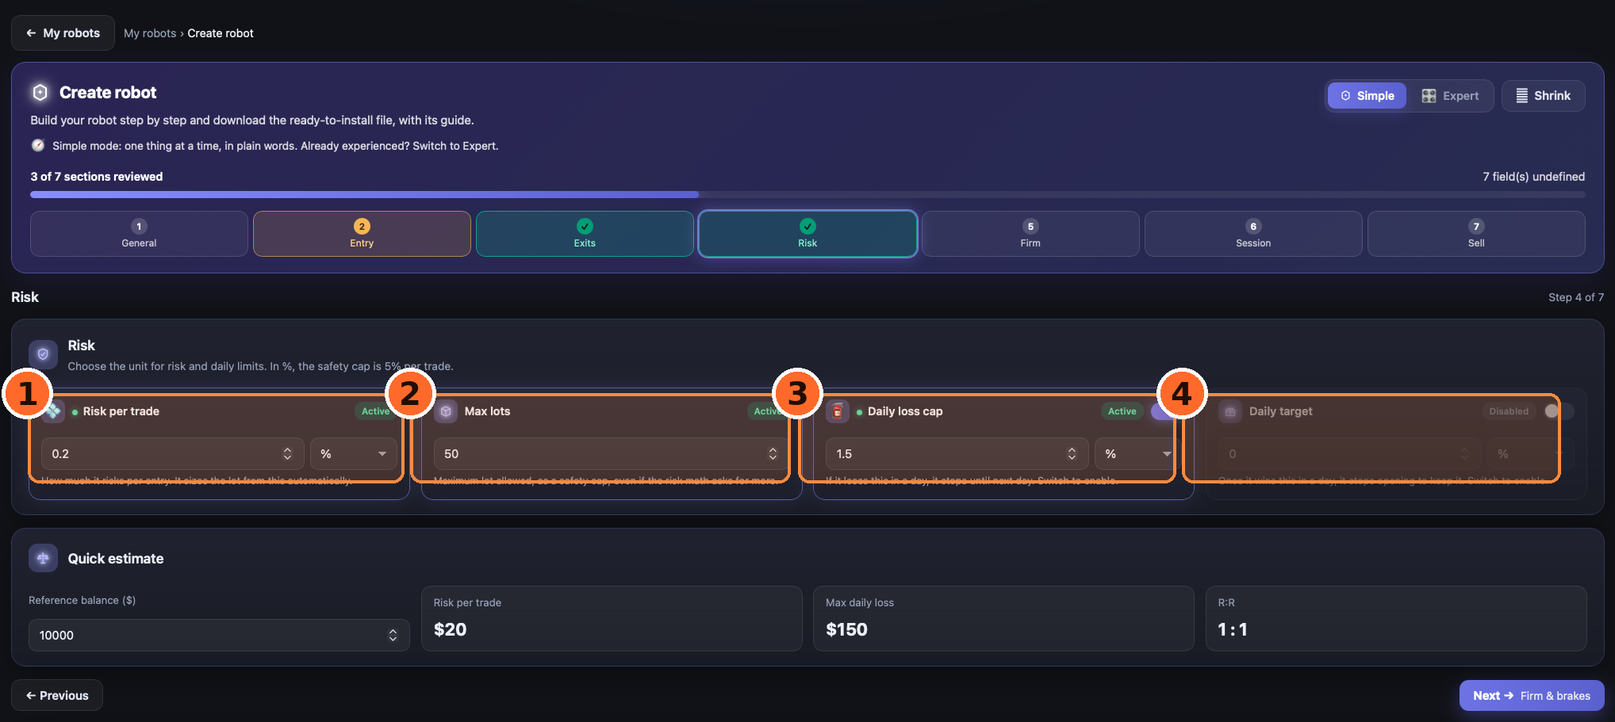
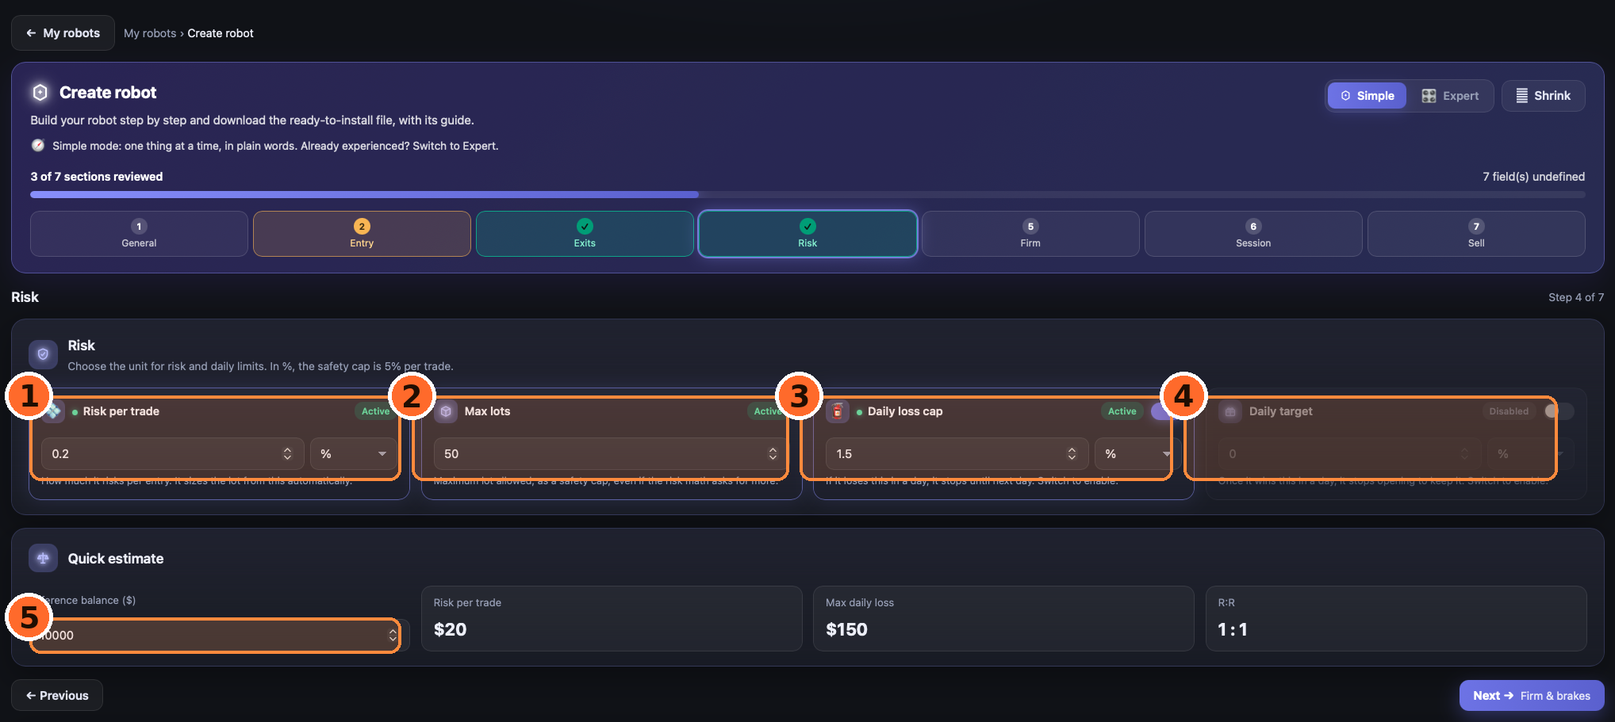
adm

Changed region(s): [[0.0, 0.4918, 0.9902, 0.6762], [0.0, 0.7991, 0.2475, 0.9221]]

diff --git a/app/como-usar/page.tsx b/app/como-usar/page.tsx
@@ -25,7 +25,7 @@ type Cat = { es: string; en: string; guides: Guide[] };
 
 // Sube este número cada vez que reemplaces una captura en /public/guia-img/
 // para forzar que el navegador descargue la versión nueva (evita caché viejo).
-const IMG_V = '10';
+const IMG_V = '11';
 
 const CATS: Cat[] = [
   {
@@ -126,47 +126,47 @@ const CATS: Cat[] = [
   {
     es: 'Módulos', en: 'Modules',
     guides: [
-      { id: 'mis-robots', icon: 'robot', es: 'Mis robots', en: 'My robots', mins: 6, steps: [
-        { es: 'Abre Mis robots', en: 'Open My robots', img: 'guia-img/robots-1.png',
-          des_es: 'Cada cuenta conectada aparece como una tarjeta. Tus robots se muestran aquí solos cuando su EA opera con su magic number en una cuenta conectada. Pulsa "Crear robot" para construir uno nuevo paso a paso, o "Ver los robots" para abrir los de una cuenta. Abajo puedes comparar carteras y ver si tus robots diversifican o caen juntos.',
-          des_en: 'Each connected account shows up as a card. Your robots appear here on their own once their EA trades with its magic number on a connected account. Tap "Create robot" to build one step by step, or "See the robots" to open an account’s robots. Below you can compare portfolios and see whether your robots diversify or fall together.',
-          markers: [{ x: 50, y: 13, n: 1, es: 'Botón Crear robot', en: 'Create robot button' }, { x: 8, y: 19, n: 2, es: 'Tarjeta de tu cuenta conectada', en: 'Your connected account card' }, { x: 8, y: 33, n: 3, es: 'Ver los robots de la cuenta', en: 'See the account’s robots' }] },
-        { es: 'Paso 1 · General', en: 'Step 1 · General', img: 'guia-img/robots-2.png',
-          des_es: 'Dale un nombre que reconozcas, elige la plataforma (genera el archivo .mq5 / .mq4 / .cs correcto) y el instrumento (lo encuentra aunque tu bróker use otro sufijo). El magic — la identidad del robot — lo asigna Onyx solo y es único: no se puede cambiar, identifica tu robot en toda la plataforma. Define también el timeframe de entrada y el idioma del panel.',
-          des_en: 'Give it a name you’ll recognize, pick the platform (it generates the right .mq5 / .mq4 / .cs file) and the instrument (it finds it even if your broker uses another suffix). The magic — the robot’s identity — is assigned by Onyx automatically and is unique: it can’t be changed and identifies your robot across the platform. Also set the entry timeframe and the panel language.',
-          markers: [{ x: 10, y: 44, n: 1, es: 'Nombre del robot', en: 'Robot name' }, { x: 25, y: 44, n: 2, es: 'Plataforma', en: 'Platform' }, { x: 42, y: 44, n: 3, es: 'Instrumento', en: 'Instrument' }, { x: 58, y: 44, n: 4, es: 'Magic (automático y único)', en: 'Magic (automatic and unique)' }, { x: 95, y: 57, n: 5, es: 'Siguiente → Entry', en: 'Next → Entry' }] },
-        { es: 'Paso 2 · Entrada', en: 'Step 2 · Entry', img: 'guia-img/robots-3.png',
-          des_es: 'Elige el disparador de entrada: la señal del "cuándo entrar". Luego el sesgo/tendencia (cómo lee la dirección, solo opera a favor) y su timeframe superior. Pon el tope de operaciones por día (0 = sin límite) y decide si el robot abre en largos, cortos o ambos.',
-          des_en: 'Pick the entry trigger: the signal for "when to enter". Then the bias/trend (how it reads direction — it only trades in its favor) and its higher timeframe. Set the cap of trades per day (0 = no limit) and choose whether the robot takes longs, shorts or both.',
-          markers: [{ x: 8, y: 64, n: 1, es: 'Disparador de entrada', en: 'Entry trigger' }, { x: 22, y: 64, n: 2, es: 'Sesgo / tendencia', en: 'Bias / trend' }, { x: 8, y: 84, n: 3, es: 'Máx. operaciones/día', en: 'Max trades/day' }, { x: 21, y: 82, n: 4, es: 'Largos y cortos', en: 'Longs and shorts' }] },
-        { es: 'Paso 3 · Salidas y gestión', en: 'Step 3 · Exits & management', img: 'guia-img/robots-4.png',
-          des_es: 'Aquí defines cómo cierra. El stop loss protege la pérdida; TP1 cierra una parte y asegura ganancia; el runner deja correr el resto; el trailing mueve el stop detrás del precio para no devolver ganancia; break even y time-stop son opcionales (actívalos con el interruptor). Todo en las mismas unidades: pips, R, %, $ o ×ATR.',
-          des_en: 'Here you define how it closes. Stop loss protects the loss; TP1 closes part and locks profit; the runner lets the rest run; trailing moves the stop behind price so you don’t give profit back; break even and time-stop are optional (turn them on with the switch). All in the same units: pips, R, %, $ or ×ATR.',
-          markers: [{ x: 8, y: 69, n: 1, es: 'Stop loss', en: 'Stop loss' }, { x: 22, y: 69, n: 2, es: 'TP1 (parcial)', en: 'TP1 (partial)' }, { x: 64, y: 69, n: 3, es: 'Trailing', en: 'Trailing' }, { x: 92, y: 69, n: 4, es: 'Time-stop', en: 'Time-stop' }] },
-        { es: 'Paso 4 · Riesgo', en: 'Step 4 · Risk', img: 'guia-img/robots-5.png',
-          des_es: 'Elige el riesgo por operación (en %, el tope de seguridad es 5% por trade) y el robot calcula el lote solo. Pon el lote máximo como tope de seguridad, el freno de pérdida diaria (si pierde eso en un día, se detiene hasta mañana) y, opcional, la meta diaria. La estimación rápida te muestra riesgo por trade, pérdida máxima diaria y R:R con un balance de referencia.',
-          des_en: 'Pick the risk per trade (in %, the safety cap is 5% per trade) and the robot sizes the lot automatically. Set the max lot as a safety cap, the daily loss cap (if it loses that in a day, it stops until tomorrow) and, optionally, the daily target. The quick estimate shows risk per trade, max daily loss and R:R against a reference balance.',
-          markers: [{ x: 13, y: 60, n: 1, es: 'Riesgo por operación', en: 'Risk per trade' }, { x: 37, y: 60, n: 2, es: 'Lote máximo', en: 'Max lots' }, { x: 61, y: 60, n: 3, es: 'Freno de pérdida diaria', en: 'Daily loss cap' }, { x: 85, y: 60, n: 4, es: 'Meta diaria (opcional)', en: 'Daily target (optional)' }] },
-        { es: 'Paso 5 · Firma y frenos', en: 'Step 5 · Firm & brakes', img: 'guia-img/robots-6.png',
-          des_es: 'Si operas una prop firm, escribe su nombre (solo para mostrarlo en el panel) y define sus límites: pérdida diaria y total que permite tu firma. Los frenos del propio robot (suave, duro y total) van siempre por debajo del límite de la firma para que no te acerques al borde. En "Fase de la cuenta" eliges en qué etapa estás y fijas la meta de ganancia donde el robot deja de abrir.',
-          des_en: 'If you trade a prop firm, type its name (just to show it on the panel) and set its limits: the daily and total loss your firm allows. The robot’s own brakes (soft, hard and total) always sit below the firm limit so you never get near the edge. In "Account phase" you choose your stage and set the profit target where the robot stops opening.',
-          markers: [{ x: 13, y: 46, n: 1, es: 'Nombre de la firma', en: 'Firm name' }, { x: 50, y: 46, n: 2, es: 'Límites de la firma (diario y total)', en: 'Firm limits (daily and total)' }, { x: 13, y: 67, n: 3, es: 'Frenos del robot', en: 'Robot brakes' }, { x: 13, y: 86, n: 4, es: 'Fase de la cuenta', en: 'Account phase' }] },
-        { es: 'Paso 6 · Horario y noticias', en: 'Step 6 · Schedule & news', img: 'guia-img/robots-7.png',
-          des_es: 'Marca los días en que el robot busca entradas (el mercado abre el domingo y cierra el viernes; el sábado está cerrado). Añade una o varias sesiones de horario (Londres, Nueva York, Asia o el solape) y elige el GMT del servidor de tu bróker para ver el equivalente en tu hora local. Define el cierre de sesión y marca "sin fin de semana" si no quieres que deje operaciones abiertas.',
-          des_en: 'Mark the days the robot looks for entries (the market opens Sunday and closes Friday; Saturday is closed). Add one or several time sessions (London, New York, Asia or the overlap) and pick your broker server’s GMT to see the equivalent in your local time. Set the session close and tick "no weekend" if you don’t want trades left open.',
-          markers: [{ x: 42, y: 48, n: 1, es: 'Días de operación', en: 'Trading days' }, { x: 16, y: 67, n: 2, es: 'Horario de la sesión', en: 'Session hours' }, { x: 25, y: 77, n: 3, es: 'GMT del servidor del bróker', en: 'Broker server GMT' }, { x: 16, y: 92, n: 4, es: 'Cierre de sesión y fin de semana', en: 'Session close & weekend' }] },
-        { es: 'Paso 7 · Panel en el gráfico', en: 'Step 7 · On-chart panel', img: 'guia-img/robots-8.png',
-          des_es: 'Activa "Mostrar el panel en el gráfico" para que dentro de MT5, MT4 o cTrader se vea nombre, estado, balance, equity, drawdown y meta. La vista previa te enseña cómo queda. Elige el tema (oscuro o claro), el color de acento y qué filas mostrar (firma/cuenta, drawdown, meta, estadísticas).',
-          des_en: 'Turn on "Show the panel on the chart" so that inside MT5, MT4 or cTrader it shows name, status, balance, equity, drawdown and target. The preview shows how it looks. Choose the theme (dark or light), the accent color and which rows to show (firm/account, drawdown, target, stats).',
-          markers: [{ x: 8, y: 52, n: 1, es: 'Mostrar panel en el gráfico', en: 'Show panel on the chart' }, { x: 49, y: 69, n: 2, es: 'Vista previa del panel', en: 'Panel preview' }, { x: 25, y: 89, n: 3, es: 'Tema (oscuro / claro)', en: 'Theme (dark / light)' }, { x: 54, y: 89, n: 4, es: 'Color de acento', en: 'Accent color' }] },
-        { es: 'Paso 7 · Permisos del comprador', en: 'Step 7 · Buyer permissions', img: 'guia-img/robots-9.png',
-          des_es: 'Elige dónde se ancla el panel (esquina y distancias). En "¿Qué puede editar el comprador?" lo recomendado es Balanceado: tu estrategia queda bloqueada (entradas, SL/TP, runner, trailing) para que rinda como se anuncia, y el comprador solo ajusta su riesgo y su firma, porque administra su propia cuenta. Opcional: pon rangos permitidos (mín/máx) como barandillas. Al final pulsa "Finalizar → ver resumen".',
-          des_en: 'Choose where the panel anchors (corner and offsets). In "What can the buyer edit?" the recommended option is Balanced: your strategy stays locked (entries, SL/TP, runner, trailing) so it performs as advertised, and the buyer only adjusts their risk and firm, since they manage their own account. Optional: set allowed ranges (min/max) as guardrails. Finally press "Finish → see summary".',
-          markers: [{ x: 15, y: 6, n: 1, es: 'Esquina y posición del panel', en: 'Panel corner & position' }, { x: 49, y: 26, n: 2, es: 'Permiso Balanceado (recomendado)', en: 'Balanced permission (recommended)' }, { x: 95, y: 34, n: 3, es: 'Estrategia bloqueada', en: 'Strategy locked' }, { x: 10, y: 70, n: 4, es: 'Rangos permitidos (opcional)', en: 'Allowed ranges (optional)' }] },
-        { es: 'Tus creaciones: descarga y prueba', en: 'Your creations: download and test', img: 'guia-img/robots-10.png',
-          des_es: 'En "Mis creaciones" tienes todos tus robots. En cada tarjeta puedes descargar el archivo listo (.mq5), bajar su configuración (.set), abrir su guía o probarlo en demo. Cuando acumule las operaciones mínimas en demo podrás ponerlo a la venta. También puedes duplicarlo o editarlo. Usa el buscador y los filtros (Todos · Trading · Sin probar) para encontrarlo rápido.',
-          des_en: 'In "My creations" you have all your robots. On each card you can download the ready file (.mq5), get its config (.set), open its guide or test it on demo. Once it reaches the minimum trades on demo you can list it for sale. You can also duplicate or edit it. Use the search and filters (All · Trading · Untested) to find it fast.',
-          markers: [{ x: 10, y: 21, n: 1, es: 'Tarjeta de un robot', en: 'A robot’s card' }, { x: 6, y: 32, n: 2, es: 'Descargar .mq5', en: 'Download .mq5' }, { x: 17, y: 38, n: 3, es: 'Guía / Config / Probar en demo', en: 'Guide / Config / Test on demo' }, { x: 6, y: 43, n: 4, es: 'Vender (al cumplir las operaciones)', en: 'Sell (once trades are met)' }] },
+      { id: 'mis-robots', icon: 'robot', es: 'Mis robots', en: 'My robots', mins: 8, steps: [
+        { es: 'Abre "Mis robots"', en: 'Open "My robots"', img: 'guia-img/robots-1.png',
+          des_es: 'Mis robots es tu centro de robots. Cada cuenta que conectaste aparece como una tarjeta (2) con su nombre, el estado del EA (EA en línea), la ganancia neta y cuántos robots tiene; dentro verás su mejor y peor robot, el drawdown máximo y la diversificación.\n\nTus robots aparecen aquí solos en cuanto su EA opera con su magic number en una cuenta conectada: no tienes que registrarlos a mano.\n\n• (1) "Crear robot" abre el constructor paso a paso (los 7 pasos que siguen).\n• (3) "Ver los robots" abre la lista de robots de esa cuenta.\n• (4) "Comparar carteras" combina varios robots y te muestra si diversifican o caen juntos.',
+          des_en: 'My robots is your robot hub. Each account you connected shows as a card (2) with its name, EA status (EA online), net profit and how many robots it has; inside you’ll see its best and worst robot, max drawdown and diversification.\n\nYour robots appear here on their own as soon as their EA trades with its magic number on a connected account — you don’t register them by hand.\n\n• (1) "Create robot" opens the step-by-step builder (the 7 steps that follow).\n• (3) "See the robots" opens that account’s robot list.\n• (4) "Compare portfolios" combines several robots and shows whether they diversify or fall together.',
+          markers: [{ x: 50, y: 13, n: 1, es: 'Crear robot (abre el constructor)', en: 'Create robot (opens the builder)' }, { x: 8, y: 19, n: 2, es: 'Tarjeta de tu cuenta conectada', en: 'Your connected account card' }, { x: 8, y: 33, n: 3, es: 'Ver los robots de la cuenta', en: 'See the account’s robots' }, { x: 11, y: 39, n: 4, es: 'Comparar carteras', en: 'Compare portfolios' }] },
+        { es: 'Paso 1 de 7 · General', en: 'Step 1 of 7 · General', img: 'guia-img/robots-2.png',
+          des_es: 'Aquí defines la identidad del robot. Son 6 campos:\n\n1. Nombre del robot — solo para reconocerlo en tu lista (ej. "Mi cazador de Londres").\n2. Plataforma — dónde correrá el robot. Genera el archivo correcto: .mq5 (MT5), .mq4 (MT4) o .cs (cTrader).\n3. Instrumento — el par o activo (metales, índices, divisas, petróleo, cripto). Lo encuentra aunque tu bróker use otro sufijo (GOLD, XAUUSD.m…).\n4. Magic — la identidad del robot. Onyx lo asigna solo y es ÚNICO: no se puede cambiar, sirve para identificar tu robot en toda la plataforma.\n5. Timeframe de entrada — el ritmo de velas que lee para entrar (ej. 5 min).\n6. Idioma del panel — el idioma del panel y los mensajes del robot en el gráfico.\n\nCuando termines, pulsa (7) "Siguiente → Entry".',
+          des_en: 'Here you define the robot’s identity. Six fields:\n\n1. Robot name — just to recognize it in your list (e.g. "My London hunter").\n2. Platform — where the robot will run. It generates the right file: .mq5 (MT5), .mq4 (MT4) or .cs (cTrader).\n3. Instrument — the pair or asset (metals, indices, FX, oil, crypto). It finds it even if your broker uses another suffix (GOLD, XAUUSD.m…).\n4. Magic — the robot’s identity. Onyx assigns it automatically and it is UNIQUE: it can’t be changed and identifies your robot across the platform.\n5. Entry timeframe — the candle rhythm it reads to enter (e.g. 5 min).\n6. Panel language — the language of the robot’s on-chart panel and messages.\n\nWhen done, press (7) "Next → Entry".',
+          markers: [{ x: 10, y: 44, n: 1, es: 'Nombre del robot', en: 'Robot name' }, { x: 25, y: 44, n: 2, es: 'Plataforma (.mq5 / .mq4 / .cs)', en: 'Platform (.mq5 / .mq4 / .cs)' }, { x: 42, y: 44, n: 3, es: 'Instrumento', en: 'Instrument' }, { x: 58, y: 44, n: 4, es: 'Magic (automático y único)', en: 'Magic (automatic and unique)' }, { x: 74, y: 44, n: 5, es: 'Timeframe de entrada', en: 'Entry timeframe' }, { x: 90, y: 44, n: 6, es: 'Idioma del panel', en: 'Panel language' }, { x: 96, y: 57, n: 7, es: 'Siguiente → Entry', en: 'Next → Entry' }] },
+        { es: 'Paso 2 de 7 · Entrada', en: 'Step 2 of 7 · Entry', img: 'guia-img/robots-3.png',
+          des_es: 'Define CUÁNDO y en qué dirección entra:\n\n1. Disparador de entrada — la señal que dispara la entrada (el "cuándo entrar"). Al elegirlo aparecen sus parámetros para ajustarlo.\n2. Sesgo / tendencia — cómo lee la dirección (ej. estructura HH/HL). El robot solo opera a favor de esa tendencia.\n3. Timeframe del sesgo — la temporalidad superior con la que lee la tendencia (ej. 1 h).\n4. Máx. operaciones/día — tope de operaciones por día. 0 = sin límite.\n5. Largos y cortos — deja ambos para operar en las dos direcciones, o apaga uno para que solo compre o solo venda.',
+          des_en: 'Define WHEN and in which direction it enters:\n\n1. Entry trigger — the signal that fires the entry (the "when to enter"). Picking it reveals its parameters to tune.\n2. Bias / trend — how it reads direction (e.g. structure HH/HL). The robot only trades in favor of that trend.\n3. Bias timeframe — the higher timeframe it uses to read the trend (e.g. 1 h).\n4. Max trades/day — cap of trades per day. 0 = no limit.\n5. Longs and shorts — keep both to trade both ways, or turn one off so it only buys or only sells.',
+          markers: [{ x: 8, y: 64, n: 1, es: 'Disparador de entrada', en: 'Entry trigger' }, { x: 22, y: 64, n: 2, es: 'Sesgo / tendencia', en: 'Bias / trend' }, { x: 36, y: 64, n: 3, es: 'Timeframe del sesgo', en: 'Bias timeframe' }, { x: 8, y: 84, n: 4, es: 'Máx. operaciones/día (0 = sin límite)', en: 'Max trades/day (0 = no limit)' }, { x: 21, y: 82, n: 5, es: 'Largos y cortos', en: 'Longs and shorts' }] },
+        { es: 'Paso 3 de 7 · Salidas y gestión', en: 'Step 3 of 7 · Exits & management', img: 'guia-img/robots-4.png',
+          des_es: 'Define CÓMO cierra cada operación. Todo usa las mismas unidades: pips, R, %, $ o ×ATR, y el bot las convierte a distancia de precio en tiempo real. Son 7 tarjetas (usa el interruptor para activar/desactivar las opcionales):\n\n1. Stop loss — dónde corta la pérdida y cierra para protegerte.\n2. TP1 (parcial) — primer objetivo: cierra una parte y asegura ganancia.\n3. % cerrado en TP1 — qué porcentaje cierra en TP1; el resto sigue como runner.\n4. Runner / TP final — objetivo del resto de la posición para dejar correr la ganancia.\n5. Trailing — arrastra el stop detrás del precio para no devolver ganancia.\n6. Break even — cuando la ganancia llega a este múltiplo de riesgo, mueve el stop a la entrada (0 = justo en la entrada).\n7. Time-stop (barras) — si tras tantas velas la operación no se mueve, la cierra.',
+          des_en: 'Define HOW each trade closes. Everything uses the same units: pips, R, %, $ or ×ATR, and the bot converts them to price distance in real time. Seven cards (use the switch to enable/disable the optional ones):\n\n1. Stop loss — where it cuts the loss and closes to protect you.\n2. TP1 (partial) — first target: closes part and locks profit.\n3. % closed at TP1 — what percent closes at TP1; the rest continues as a runner.\n4. Runner / final TP — target for the rest of the position, to let profit run.\n5. Trailing — trails the stop behind price so you don’t give profit back.\n6. Break even — when profit reaches this multiple of risk, moves the stop to entry (0 = exactly at entry).\n7. Time-stop (bars) — if after this many candles the trade isn’t moving, it closes it.',
+          markers: [{ x: 8, y: 69, n: 1, es: 'Stop loss', en: 'Stop loss' }, { x: 22, y: 69, n: 2, es: 'TP1 (parcial)', en: 'TP1 (partial)' }, { x: 36, y: 69, n: 3, es: '% cerrado en TP1', en: '% closed at TP1' }, { x: 50, y: 69, n: 4, es: 'Runner / TP final', en: 'Runner / final TP' }, { x: 64, y: 69, n: 5, es: 'Trailing', en: 'Trailing' }, { x: 78, y: 69, n: 6, es: 'Break even', en: 'Break even' }, { x: 92, y: 69, n: 7, es: 'Time-stop (barras)', en: 'Time-stop (bars)' }] },
+        { es: 'Paso 4 de 7 · Riesgo', en: 'Step 4 of 7 · Risk', img: 'guia-img/robots-5.png',
+          des_es: 'Define cuánto arriesga y sus frenos de dinero. 4 tarjetas:\n\n1. Riesgo por operación — cuánto arriesga por entrada; dimensiona el lote solo. En %, el tope de seguridad es 5% por trade.\n2. Lote máximo — lote máximo permitido como tope de seguridad, aunque el cálculo pida más.\n3. Freno de pérdida diaria — si pierde esto en un día, se detiene hasta el día siguiente (activable con el interruptor).\n4. Meta diaria (opcional) — cuando gana esto en un día, deja de abrir para conservarlo (viene desactivada).\n\n5. Estimación rápida — escribe un balance de referencia y abajo verás en dinero el riesgo por trade, la pérdida máxima diaria y el R:R.',
+          des_en: 'Define how much it risks and its money brakes. Four cards:\n\n1. Risk per trade — how much it risks per entry; it sizes the lot automatically. In %, the safety cap is 5% per trade.\n2. Max lots — maximum lot allowed as a safety cap, even if the math asks for more.\n3. Daily loss cap — if it loses this in a day, it stops until the next day (toggle to enable).\n4. Daily target (optional) — when it wins this in a day, it stops opening to keep it (off by default).\n\n5. Quick estimate — type a reference balance and below you’ll see, in money, the risk per trade, the max daily loss and the R:R.',
+          markers: [{ x: 13, y: 60, n: 1, es: 'Riesgo por operación (tope 5%)', en: 'Risk per trade (5% cap)' }, { x: 37, y: 60, n: 2, es: 'Lote máximo', en: 'Max lots' }, { x: 61, y: 60, n: 3, es: 'Freno de pérdida diaria', en: 'Daily loss cap' }, { x: 85, y: 60, n: 4, es: 'Meta diaria (opcional)', en: 'Daily target (optional)' }, { x: 13, y: 88, n: 5, es: 'Balance de referencia (estimación)', en: 'Reference balance (estimate)' }] },
+        { es: 'Paso 5 de 7 · Firma y frenos', en: 'Step 5 of 7 · Firm & brakes', img: 'guia-img/robots-6.png',
+          des_es: 'Si operas una prop firm (cuenta de fondeo), aquí pones sus reglas. Tres bloques:\n\nReglas de la prop firm:\n1. Nombre de la firma — solo para mostrarlo en el panel (ej. FTMO).\n2. Tipo de DD total — cómo mide tu firma la pérdida máxima: desde el pico (trailing) o desde el balance inicial (estático). Revísalo en tu contrato.\n3. Límite diario de la firma — pérdida diaria máxima que permite antes de romper la cuenta.\n4. Límite total de la firma — pérdida total (drawdown) máxima que permite.\n\n5. Frenos del robot (suave · duro · total) — los colchones del propio robot, SIEMPRE por debajo del límite de la firma, para que nunca te acerques al borde. Suave: deja de abrir nuevas; Duro: cierra todo y bloquea hasta mañana; Total: se detiene antes de tocar el límite de la firma.\n\nMeta de la cuenta:\n6. Fase de la cuenta — en qué etapa estás; fija la meta de ganancia donde el robot deja de abrir.\n7. Metas de fase — balance inicial (0 = lo lee solo), objetivo de Fase 1 y de Fase 2. Al alcanzarlo, el robot deja de abrir.',
+          des_en: 'If you trade a prop firm (funded account), set its rules here. Three blocks:\n\nProp-firm rules:\n1. Firm name — just to show it on the panel (e.g. FTMO).\n2. Total DD type — how your firm measures max loss: from the peak (trailing) or from the initial balance (static). Check your contract.\n3. Firm daily limit — max daily loss it allows before breaching the account.\n4. Firm total limit — max total loss (drawdown) it allows.\n\n5. Robot brakes (soft · hard · total) — the robot’s own cushions, ALWAYS below the firm limit, so you never get near the edge. Soft: stops opening new trades; Hard: closes everything and locks until tomorrow; Total: halts before hitting the firm limit.\n\nAccount target:\n6. Account phase — what stage you’re in; sets the profit target where the robot stops opening.\n7. Phase targets — initial balance (0 = it reads it automatically), Phase 1 and Phase 2 targets. Once reached, the robot stops opening.',
+          markers: [{ x: 13, y: 47, n: 1, es: 'Nombre de la firma', en: 'Firm name' }, { x: 37, y: 47, n: 2, es: 'Tipo de DD total', en: 'Total DD type' }, { x: 61, y: 47, n: 3, es: 'Límite diario de la firma', en: 'Firm daily limit' }, { x: 84, y: 47, n: 4, es: 'Límite total de la firma', en: 'Firm total limit' }, { x: 10, y: 67, n: 5, es: 'Frenos del robot (suave · duro · total)', en: 'Robot brakes (soft · hard · total)' }, { x: 13, y: 86, n: 6, es: 'Fase de la cuenta', en: 'Account phase' }, { x: 60, y: 86, n: 7, es: 'Metas de fase (inicial · F1 · F2)', en: 'Phase targets (initial · P1 · P2)' }] },
+        { es: 'Paso 6 de 7 · Horario y noticias', en: 'Step 6 of 7 · Schedule & news', img: 'guia-img/robots-7.png',
+          des_es: 'Define CUÁNDO puede operar:\n\n1. Días de operación — marca los días en que busca entradas. El mercado abre el domingo y cierra el viernes; el sábado está cerrado.\n2. Atajos de sesión — botones para añadir rápido Londres, Nueva York, Asia o el solape LDN/NY. Puedes añadir varias sesiones con "Añadir ventana".\n3. Horario de la sesión — hora de inicio y fin (hora del servidor); te muestra el equivalente en tu hora local. El bot busca entradas si la hora cae dentro de CUALQUIER sesión.\n4. GMT del servidor del bróker — la zona horaria del servidor de tu bróker; se usa para tu hora local y el filtro de noticias.\n5. Cierre de sesión y fin de semana — hora en que cierra lo que tenga abierto; "Cerrar al fin de sesión" y "Sin fin de semana" evitan dejar operaciones abiertas.',
+          des_en: 'Define WHEN it can trade:\n\n1. Trading days — mark the days it looks for entries. The market opens Sunday and closes Friday; Saturday is closed.\n2. Session shortcuts — buttons to quickly add London, New York, Asia or the LDN/NY overlap. You can add several sessions with "Add window".\n3. Session hours — start and end time (server time); it shows the equivalent in your local time. The bot seeks entries if the time falls inside ANY session.\n4. Broker server GMT — your broker server’s time zone; used for your local time and the news filter.\n5. Session close & weekend — the time it closes anything open; "Close at session end" and "No weekend" avoid leaving trades open.',
+          markers: [{ x: 42, y: 48, n: 1, es: 'Días de operación', en: 'Trading days' }, { x: 13, y: 61, n: 2, es: 'Atajos de sesión (Londres/NY/Asia)', en: 'Session shortcuts (London/NY/Asia)' }, { x: 16, y: 67, n: 3, es: 'Horario de la sesión', en: 'Session hours' }, { x: 25, y: 77, n: 4, es: 'GMT del servidor del bróker', en: 'Broker server GMT' }, { x: 16, y: 92, n: 5, es: 'Cierre de sesión y fin de semana', en: 'Session close & weekend' }] },
+        { es: 'Paso 7 de 7 (a) · Panel en el gráfico', en: 'Step 7 of 7 (a) · On-chart panel', img: 'guia-img/robots-8.png',
+          des_es: 'El último paso es "Vender / permisos" y tiene dos partes. Esta es la apariencia del panel que el robot muestra dentro de MT5, MT4 o cTrader:\n\n1. Mostrar el panel en el gráfico — actívalo para que el comprador vea el panel en su gráfico.\n2. Vista previa del panel — cómo se verá: nombre, estado, firma/cuenta, balance, equity, drawdown, meta y estadísticas (WR, trades, neto).\n3. Tema — oscuro o claro.\n4. Color de acento — el color del panel.\n5. Filas que se muestran — elige qué filas aparecen: firma/cuenta, drawdown, meta y estadísticas.',
+          des_en: 'The last step is "Sell / permissions" and has two parts. This is the look of the panel the robot shows inside MT5, MT4 or cTrader:\n\n1. Show the panel on the chart — enable it so the buyer sees the panel on their chart.\n2. Panel preview — how it will look: name, status, firm/account, balance, equity, drawdown, target and stats (WR, trades, net).\n3. Theme — dark or light.\n4. Accent color — the panel color.\n5. Rows shown — choose which rows appear: firm/account, drawdown, target and stats.',
+          markers: [{ x: 8, y: 52, n: 1, es: 'Mostrar panel en el gráfico', en: 'Show panel on the chart' }, { x: 49, y: 69, n: 2, es: 'Vista previa del panel', en: 'Panel preview' }, { x: 25, y: 89, n: 3, es: 'Tema (oscuro / claro)', en: 'Theme (dark / light)' }, { x: 54, y: 89, n: 4, es: 'Color de acento', en: 'Accent color' }, { x: 13, y: 97, n: 5, es: 'Filas que se muestran', en: 'Rows shown' }] },
+        { es: 'Paso 7 de 7 (b) · Permisos del comprador', en: 'Step 7 of 7 (b) · Buyer permissions', img: 'guia-img/robots-9.png',
+          des_es: 'La segunda parte del paso 7: qué puede tocar quien compre tu robot.\n\n1. Esquina y posición del panel — dónde se ancla en el gráfico (esquina + distancias horizontal/vertical).\n2. Permiso Balanceado (recomendado) — hay tres niveles: Abierto (todo editable), Balanceado (tu estrategia fija; su riesgo y firma libres) y Blindado (máxima protección). Balanceado es lo recomendado.\n3. Estrategia bloqueada — entradas, SL/TP, runner y trailing quedan LOCKED para que el robot rinda como lo anuncias.\n4. Lo que el comprador sí edita — como administra su propia cuenta, su riesgo y tamaño, gestión y frenos, cuenta de fondeo y filtros/horas quedan EDITABLES.\n5. Rangos permitidos (opcional) — dale libertad con barandillas: mín/máx de riesgo por trade, lote y operaciones por día (0 = sin límite).\n\nAl terminar pulsa "Finalizar → ver resumen".',
+          des_en: 'The second part of step 7: what the buyer of your robot can touch.\n\n1. Panel corner & position — where it anchors on the chart (corner + horizontal/vertical offsets).\n2. Balanced permission (recommended) — three levels: Open (all editable), Balanced (your strategy fixed; their risk and firm free) and Armored (max protection). Balanced is recommended.\n3. Strategy locked — entries, SL/TP, runner and trailing stay LOCKED so the robot performs as advertised.\n4. What the buyer can edit — since they manage their own account, their risk & size, management & brakes, funded account and filters/hours stay EDITABLE.\n5. Allowed ranges (optional) — give freedom with guardrails: min/max for risk per trade, lot and trades per day (0 = no limit).\n\nWhen done, press "Finish → see summary".',
+          markers: [{ x: 15, y: 6, n: 1, es: 'Esquina y posición del panel', en: 'Panel corner & position' }, { x: 49, y: 26, n: 2, es: 'Permiso Balanceado (recomendado)', en: 'Balanced permission (recommended)' }, { x: 95, y: 34, n: 3, es: 'Estrategia bloqueada (Locked)', en: 'Strategy locked' }, { x: 95, y: 51, n: 4, es: 'Lo que el comprador sí edita', en: 'What the buyer can edit' }, { x: 10, y: 70, n: 5, es: 'Rangos permitidos (opcional)', en: 'Allowed ranges (optional)' }] },
+        { es: 'Tus creaciones: descarga, prueba y vende', en: 'Your creations: download, test and sell', img: 'guia-img/robots-10.png',
+          des_es: 'Al crear el robot llegas a "Mis creaciones", donde están todos tus robots como tarjetas.\n\n1. Buscador — busca por nombre.\n2. Filtros — Todos · Trading · Sin probar, y orden (ej. Más nuevos).\n3. Tarjeta del robot — muestra plataforma (MT5), instrumento (XAUUSD), su magic, el estado (Sin probar) y la fecha de creación.\n4. Archivos — Descargar .mq5 (el archivo listo para instalar), Config (.set), Guía (instrucciones del propio robot) y Probar en demo.\n5. Vender — se habilita cuando el robot acumula las operaciones mínimas en demo (ej. 0/50 trades). También puedes Duplicar o Editar cada robot.',
+          des_en: 'After creating the robot you land on "My creations", where all your robots appear as cards.\n\n1. Search — find by name.\n2. Filters — All · Trading · Untested, and sorting (e.g. Newest).\n3. Robot card — shows platform (MT5), instrument (XAUUSD), its magic, the status (Untested) and the creation date.\n4. Files — Download .mq5 (the ready-to-install file), Config (.set), Guide (the robot’s own instructions) and Test on demo.\n5. Sell — unlocks once the robot reaches the minimum trades on demo (e.g. 0/50 trades). You can also Duplicate or Edit each robot.',
+          markers: [{ x: 18, y: 11, n: 1, es: 'Buscador', en: 'Search' }, { x: 91, y: 11, n: 2, es: 'Filtros (Todos / Trading / Sin probar)', en: 'Filters (All / Trading / Untested)' }, { x: 10, y: 21, n: 3, es: 'Tarjeta del robot', en: 'Robot card' }, { x: 9, y: 35, n: 4, es: 'Archivos (.mq5 · .set · Guía · Demo)', en: 'Files (.mq5 · .set · Guide · Demo)' }, { x: 6, y: 43, n: 5, es: 'Vender (al cumplir las operaciones)', en: 'Sell (once trades are met)' }] },
       ] },
       { id: 'onyx-copy', icon: 'copy', es: 'Onyx Copy', en: 'Onyx Copy', mins: 2, steps: [
         { es: 'Próximamente', en: 'Coming soon', img: 'guia-img/copy-1.png',
